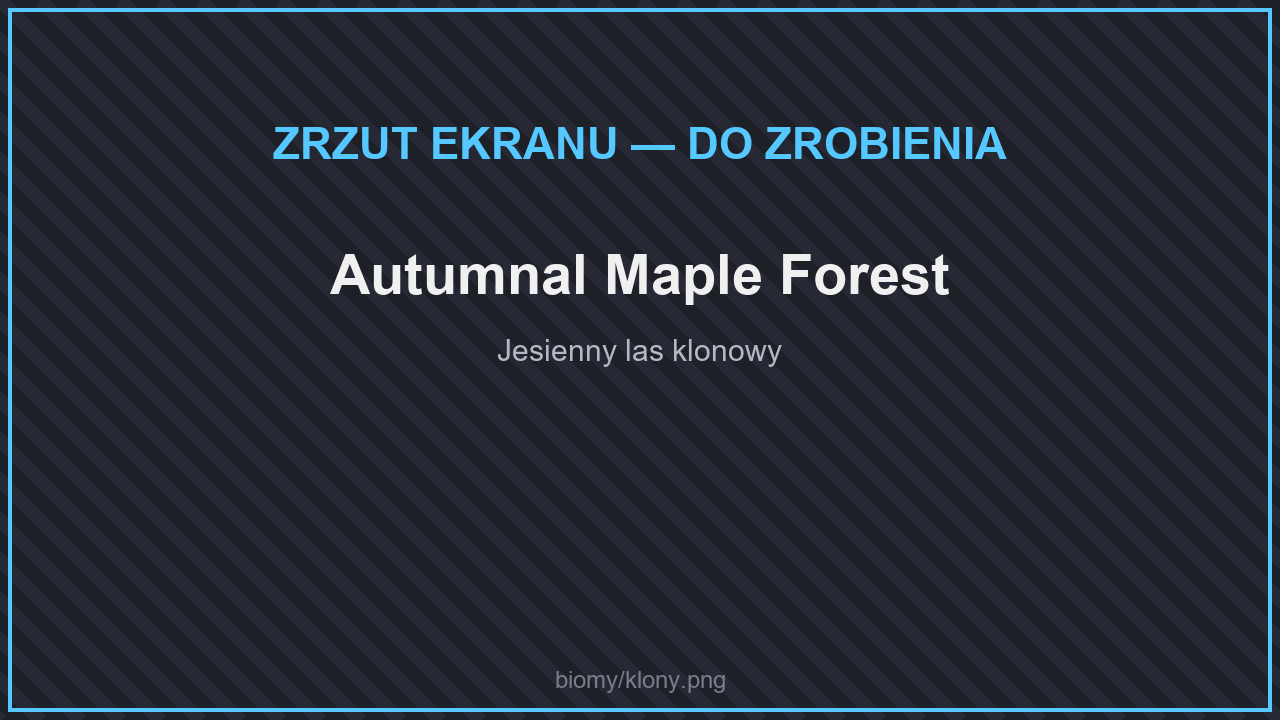
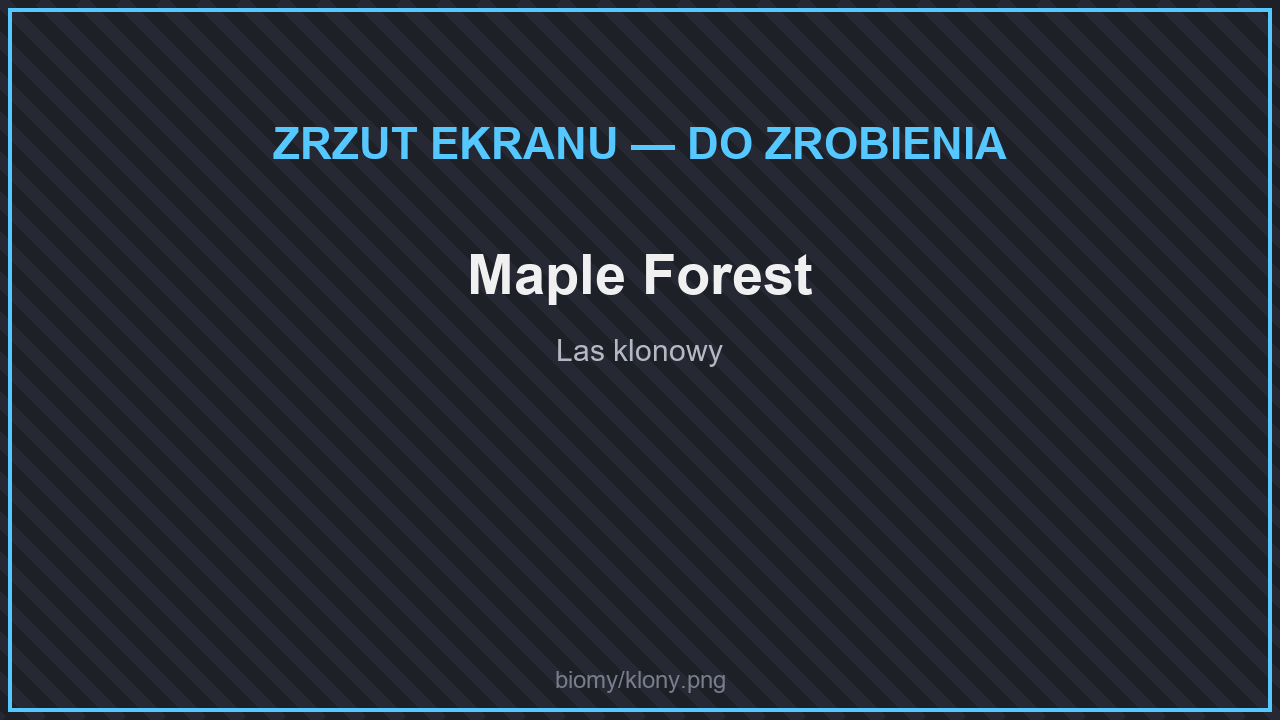
Wiki: wszystkie biomy (114 / 9 / 16), usunięte biomy wycofane
- Świat Główny: dodane 44 zwykłe biomy i Old Growth Forest, usunięty Autumnal Maple Forest.
- Nether i Kres: tabele zwykłych biomów.
- Sloty zdjęć: biomy Netheru po usunięciu BetterNether, klony = Maple Forest.

Changed region(s): [[0.25, 0.3361, 0.75, 0.4278], [0.375, 0.4583, 0.625, 0.5194]]

diff --git a/tools/media_plan.py b/tools/media_plan.py
@@ -286,11 +286,11 @@ PLAN = {
     "wymiary/swiat-glowny/biomy.md": {
         "## Lasy": [
             ("biomy/sekwoje.png", "Redwoods", "Las sekwojowy"),
-            ("biomy/klony.png", "Autumnal Maple Forest", "Jesienny las klonowy"),
+            ("biomy/klony.png", "Maple Forest", "Las klonowy"),
             ("biomy/glicynie.png", "Wisteria Grove", "Gaj glicynii"),
         ],
         "## Równiny i łąki": [("biomy/pola-kwiatow.png", "Flower Fields", "Pola kwiatów")],
-        "## Pustynie i sawanny": [
+        "## Pustynie, sawanny i badlandy": [
             ("biomy/saguaro.png", "Saguaro Desert", "Pustynia z kaktusami saguaro"),
             ("biomy/baobaby.png", "Baobab Savanna", "Sawanna z baobabami"),
         ],
@@ -328,13 +328,12 @@ PLAN = {
         "# 🔥 Nether": [("nether/panorama.png", "Nether", "Panorama Netheru z nowymi biomami")],
     },
     "wymiary/nether/biomy.md": {
-        "## Lasy": [
-            ("nether/dzungla.png", "Nether Jungle", "Netherowa dżungla"),
-            ("nether/grzybowy-las.png", "Nether Mushroom Forest", "Las ogromnych grzybów"),
-            ("nether/odwrocony-las.png", "Upside Down Forest", "Odwrócony las"),
+        "## Nowe biomy": [
+            ("nether/lsniaca-laka.png", "Glistering Meadow", "Lśniąca łąka z błyszczącymi paprociami"),
+            ("nether/plonacy-zagajnik.png", "Infernal Holt", "Płonący zagajnik z żarodrzewami"),
+            ("nether/czernitowa-niecka.png", "Blackstone Basin", "Czernitowa niecka z obsydianowymi iglicami"),
+            ("nether/trujace-poszycie.png", "Mycotoxic Undergrowth", "Trujące poszycie z mykotoksycznymi grzybami"),
         ],
-        "## Bagna i równiny": [("nether/mokradla.png", "Nether Swampland", "Netherowe mokradła")],
-        "## Pustkowia": [("nether/koscista-rafa.png", "Bone Reef", "Kościana rafa")],
     },
     "wymiary/nether/struktury.md": {
         "## Nowe struktury": [

diff --git a/tools/MEDIA.md b/tools/MEDIA.md
@@ -1,6 +1,6 @@
 # Zdjęcia i GIF-y do dokumentacji
 
-Gotowe: **0 / 200** (PNG: 138, GIF: 62).
+Gotowe: **0 / 176** (PNG: 119, GIF: 57).
 
 Każde miejsce na obrazek ma już plik-zaślepkę w `.gitbook/assets/`. Aby dodać prawdziwy obrazek, zapisz go **pod tą samą nazwą** (nadpisz zaślepkę) i uruchom `python tools/media.py`, żeby odświeżyć tę listę.
 
@@ -30,7 +30,6 @@ Każde miejsce na obrazek ma już plik-zaślepkę w `.gitbook/assets/`. Aby doda
 
 | | Plik | Podpis | Co pokazać |
 | --- | --- | --- | --- |
-| ⬜ | `start/plecak.png` | Plecak /plecak | Otwarty plecak z kilkoma przedmiotami |
 | ⬜ | `start/skrzynie.gif` | Otwieranie skrzyni kluczem | Otwieranie skrzyni na /skrzynie z animacją losowania |
 | ⬜ | `start/piniata.gif` | Piniata | Gracze rozbijają piniatę |
 | ⬜ | `start/strefa-afk.png` | Strefa AFK | Widok strefy AFK |
@@ -43,14 +42,6 @@ Każde miejsce na obrazek ma już plik-zaślepkę w `.gitbook/assets/`. Aby doda
 | ⬜ | `informacje/dzialki-granice.gif` | Granice działki | Podgląd granic działki (cząsteczki) i zakładanie działki |
 | ⬜ | `informacje/blok-przejecia.png` | Blok Przejęcia | Postawiony Blok Przejęcia przy granicy działki |
 | ⬜ | `informacje/dzialki-zaufani.png` | Zaufani gracze | Menu zaufanych graczy działki |
-
-## informacje/zadania.md
-
-| | Plik | Podpis | Co pokazać |
-| --- | --- | --- | --- |
-| ⬜ | `informacje/gildie.png` | Menu zadań gildii | Otwarte menu /zadania z trzema gildiami |
-| ⬜ | `informacje/misje.png` | Misje | Lista misji |
-| ⬜ | `informacje/runy.png` | Runy | Kilka run w ekwipunku z opisem |
 
 ## informacje/umiejetnosci.md
 
@@ -114,7 +105,6 @@ Każde miejsce na obrazek ma już plik-zaślepkę w `.gitbook/assets/`. Aby doda
 | ⬜ | `ekwipunek/szlamowa-odbicie.gif` | Szlamowa zbroja — Odbicie | Mob uderza gracza w szlamowej zbroi i zostaje odrzucony |
 | ⬜ | `ekwipunek/promethium.png` | Zbroja z promethium | Stojak ze zbroją z promethium |
 | ⬜ | `ekwipunek/chodzenie-po-lawie.gif` | Chodzenie po lawie | Gracz w butach z promethium chodzi po lawie |
-| ⬜ | `ekwipunek/betternether-zestawy.png` | Cincinnasite i Nether Ruby | Stojaki z zestawem cincinnasite i nether ruby + broń |
 
 ## dodatki/ekwipunek/bron.md
 
@@ -160,16 +150,8 @@ Każde miejsce na obrazek ma już plik-zaślepkę w `.gitbook/assets/`. Aby doda
 
 | | Plik | Podpis | Co pokazać |
 | --- | --- | --- | --- |
-| ⬜ | `maszyny/prasa.gif` | Prasa mechaniczna | Prasa robi płytki z żelaza (menu z postępem) |
-| ⬜ | `maszyny/rozdrabniacz.gif` | Rozdrabnianie rud | Ruda -> 2 pyły w menu rozdrabniacza |
-| ⬜ | `maszyny/piec-elektryczny.png` | Piec elektryczny | Menu pieca elektrycznego |
-| ⬜ | `maszyny/krystalizator.png` | Krystalizator | Krystalizator z blokiem gwiezdnego pyłu |
 | ⬜ | `maszyny/zamrazarka.png` | Zamrażarka | Menu zamrażarki z wyborem lodu |
 | ⬜ | `maszyny/generator-bruku.gif` | Generator bruku | Generator bruku + niszczyciel bloków / kabel do skrzyni |
-| ⬜ | `maszyny/zaparzacz.png` | Zaparzacz do płynów | Menu zaparzacza (wiadro -> wiadro wody) |
-| ⬜ | `maszyny/stojak-mikstur.png` | Elektryczny stojak do parzenia | Menu wyboru efektów mikstury |
-| ⬜ | `maszyny/auto-crafter.gif` | Auto Crafter | Ustawianie receptury i automatyczne craftowanie |
-| ⬜ | `maszyny/ladowarka.png` | Ładowarka | Ładowarka z ładującym się jetpackiem |
 
 ## dodatki/maszyny/farmy.md
 
@@ -195,8 +177,6 @@ Każde miejsce na obrazek ma już plik-zaślepkę w `.gitbook/assets/`. Aby doda
 | ⬜ | `maszyny/niszczyciel.gif` | Niszczyciel bloków | Niszczyciel bloków przy generatorze bruku |
 | ⬜ | `maszyny/stawiacz.gif` | Stawiacz bloków | Stawiacz stawiający bloki |
 | ⬜ | `maszyny/pompa.gif` | Pompa | Pompa wypompowuje jezioro lawy |
-| ⬜ | `maszyny/ladowarka-chunkow.png` | Ładowarka chunków | Ładowarka chunków z podglądem zasięgu |
-| ⬜ | `maszyny/star-collector.gif` | Star Collector | Zbieranie gwiezdnego pyłu nocą |
 
 ## dodatki/maszyny/logistyka.md
 
@@ -219,7 +199,6 @@ Każde miejsce na obrazek ma już plik-zaślepkę w `.gitbook/assets/`. Aby doda
 | ⬜ | `przechowywanie/szuflady.png` | Szuflady | Ściana szuflad z przedmiotami i liczbami |
 | ⬜ | `przechowywanie/szuflady-uzycie.gif` | Wkładanie do szuflad | Wkładanie i wyjmowanie przedmiotów z szuflady, dwuklik |
 | ⬜ | `przechowywanie/kontroler.gif` | Kontroler szuflad | Wkładanie stosu do kontrolera — rozchodzi się do szuflad |
-| ⬜ | `przechowywanie/kosz.png` | Kosz na śmieci | Menu kosza z górnym rzędem i filtrem |
 | ⬜ | `przechowywanie/plecaki.png` | Plecaki podróżnika | Kilkanaście postawionych plecaków różnych wzorów |
 | ⬜ | `przechowywanie/plecak-menu.png` | Menu plecaka | Otwarty plecak ze zbiornikami i slotem ulepszenia |
 
@@ -261,8 +240,6 @@ Każde miejsce na obrazek ma już plik-zaślepkę w `.gitbook/assets/`. Aby doda
 | ⬜ | `podroze/jetpacki.png` | Jetpacki | Wszystkie jetpacki (zwykłe i opancerzone) na stojakach |
 | ⬜ | `podroze/lotnia.gif` | Lotnia | Szybowanie lotnią z góry |
 | ⬜ | `podroze/winda.gif` | Winda | Skok w górę i kucnięcie w dół między windami |
-| ⬜ | `podroze/kamien-podrozy.png` | Kamień podróży | Postawiony kamień podróży |
-| ⬜ | `podroze/kamien-podrozy-menu.png` | Menu kamieni podróży | Lista kamieni do teleportu |
 | ⬜ | `podroze/lacznik-refrenu.gif` | Łącznik refrenu | Zjedzenie owocu refrenu i teleport na łącznik |
 | ⬜ | `podroze/przekaznik-kresu.gif` | Przekaźnik Kresu | Ładowanie przekaźnika kryształem i teleport |
 | ⬜ | `podroze/lodzie.png` | Nowe łodzie | Kilka łodzi z nowych drewien na wodzie |
@@ -280,10 +257,7 @@ Każde miejsce na obrazek ma już plik-zaślepkę w `.gitbook/assets/`. Aby doda
 | | Plik | Podpis | Co pokazać |
 | --- | --- | --- | --- |
 | ⬜ | `bloki/budowla.png` | Budowla z nowych bloków | Ładna budowla z nowych bloków (np. dom z dachówkami) |
-| ⬜ | `bloki/blockus-kamienie.png` | Kamienie i cegły | Ściana próbek kamieni i cegieł Blockus |
-| ⬜ | `bloki/blockus-kolorowe.png` | Kolorowe bloki | Kolorowe kafelki, neony, lampy |
 | ⬜ | `bloki/dawn-of-time.png` | Tradycyjne budownictwo | Dom z szachulca z dachówkami i pergolą |
-| ⬜ | `bloki/pionowe-plyty.png` | Pionowe płyty | Przykład użycia pionowych płyt |
 | ⬜ | `bloki/drewno-swiat.png` | Nowe drewno | Deski i kłody wszystkich nowych drzew |
 | ⬜ | `bloki/drewno-nether.png` | Drewno z Netheru | Deski, meble i szkło z Netheru |
 
@@ -312,7 +286,6 @@ Każde miejsce na obrazek ma już plik-zaślepkę w `.gitbook/assets/`. Aby doda
 
 | | Plik | Podpis | Co pokazać |
 | --- | --- | --- | --- |
-| ⬜ | `insekty/lapanie.gif` | Łapanie owadów | Łapanie motyla siatką |
 | ⬜ | `insekty/terraria.png` | Terraria | Półka z terrariami pełnymi owadów |
 
 ## wymiary/swiat-glowny/README.md
@@ -327,7 +300,7 @@ Każde miejsce na obrazek ma już plik-zaślepkę w `.gitbook/assets/`. Aby doda
 | | Plik | Podpis | Co pokazać |
 | --- | --- | --- | --- |
 | ⬜ | `biomy/sekwoje.png` | Redwoods | Las sekwojowy |
-| ⬜ | `biomy/klony.png` | Autumnal Maple Forest | Jesienny las klonowy |
+| ⬜ | `biomy/klony.png` | Maple Forest | Las klonowy |
 | ⬜ | `biomy/glicynie.png` | Wisteria Grove | Gaj glicynii |
 | ⬜ | `biomy/pola-kwiatow.png` | Flower Fields | Pola kwiatów |
 | ⬜ | `biomy/saguaro.png` | Saguaro Desert | Pustynia z kaktusami saguaro |
@@ -362,7 +335,6 @@ Każde miejsce na obrazek ma już plik-zaślepkę w `.gitbook/assets/`. Aby doda
 | ⬜ | `zwierzeta/zoo.png` | Nowe zwierzęta | Kolaż kilku zwierząt (niedźwiedź, słoń, tukan, orka) |
 | ⬜ | `zwierzeta/grizzly.png` | Niedźwiedź Grizzly | Niedźwiedź grizzly w lesie |
 | ⬜ | `zwierzeta/slon.png` | Słoń | Słonie na sawannie |
-| ⬜ | `zwierzeta/goryl.png` | Goryl | Goryle w dżungli |
 | ⬜ | `zwierzeta/krokodyl.png` | Krokodyl | Krokodyl przy rzece |
 | ⬜ | `zwierzeta/orka.gif` | Orka | Pływająca orka |
 | ⬜ | `zwierzeta/trzepotnik.png` | Trzepotnik | Trzepotnik w bujnej jaskini |
@@ -377,11 +349,10 @@ Każde miejsce na obrazek ma już plik-zaślepkę w `.gitbook/assets/`. Aby doda
 
 | | Plik | Podpis | Co pokazać |
 | --- | --- | --- | --- |
-| ⬜ | `nether/dzungla.png` | Nether Jungle | Netherowa dżungla |
-| ⬜ | `nether/grzybowy-las.png` | Nether Mushroom Forest | Las ogromnych grzybów |
-| ⬜ | `nether/odwrocony-las.png` | Upside Down Forest | Odwrócony las |
-| ⬜ | `nether/mokradla.png` | Nether Swampland | Netherowe mokradła |
-| ⬜ | `nether/koscista-rafa.png` | Bone Reef | Kościana rafa |
+| ⬜ | `nether/lsniaca-laka.png` | Glistering Meadow | Lśniąca łąka z błyszczącymi paprociami |
+| ⬜ | `nether/plonacy-zagajnik.png` | Infernal Holt | Płonący zagajnik z żarodrzewami |
+| ⬜ | `nether/czernitowa-niecka.png` | Blackstone Basin | Czernitowa niecka z obsydianowymi iglicami |
+| ⬜ | `nether/trujace-poszycie.png` | Mycotoxic Undergrowth | Trujące poszycie z mykotoksycznymi grzybami |
 
 ## wymiary/nether/struktury.md
 

diff --git a/wymiary/swiat-glowny/biomy.md b/wymiary/swiat-glowny/biomy.md
@@ -1,23 +1,28 @@
 ---
-description: Około 70 nowych biomów na powierzchni i pod ziemią — od sekwojowych lasów po kredowe klify.
+description: Wszystkie 114 biomów Świata Głównego — 70 nowych i 44 zwykłe, od sekwojowych lasów po kredowe klify.
 ---
 
 # 🌄 Biomy
 
-Generator świata dodaje **około 70 nowych biomów**. Wiele z nich ma własne drzewa, kwiaty i kamienie. Część zwykłych biomów Minecrafta (m.in. zwykłe równiny, las, tajgę, dżunglę, sawannę i bagno) zastąpiły ich nowe odpowiedniki. Nazwy biomów widzisz w grze po angielsku (np. na ekranie F3).
+W Świecie Głównym jest **114 biomów**: **70 nowych** i 44 zwykłe biomy Minecrafta. Wiele nowych biomów ma własne drzewa, kwiaty i kamienie. Nazwy biomów widzisz w grze po angielsku (np. na ekranie F3) — w tabelach nowe biomy mają nazwy angielskie, a zwykłe także polskie.
+
+{% hint style="info" %}
+Część zwykłych biomów **nie występuje** — zastąpiły je nowe odpowiedniki: równiny, las, tajga (także śnieżna i stare tajgi), dżungla (także rzadka), sawanna (także płaskowyż) i bagno.
+{% endhint %}
 
 ## Lasy
 
 <figure><img src="../../.gitbook/assets/biomy/sekwoje.png" alt="Redwoods"><figcaption><p>Redwoods</p></figcaption></figure>
 
-<figure><img src="../../.gitbook/assets/biomy/klony.png" alt="Autumnal Maple Forest"><figcaption><p>Autumnal Maple Forest</p></figcaption></figure>
+<figure><img src="../../.gitbook/assets/biomy/klony.png" alt="Maple Forest"><figcaption><p>Maple Forest</p></figcaption></figure>
 
 <figure><img src="../../.gitbook/assets/biomy/glicynie.png" alt="Wisteria Grove"><figcaption><p>Wisteria Grove</p></figcaption></figure>
 
 | Biom | |
 | --- | --- |
-| **Maple Forest**, **Autumnal Maple Forest**, **Windswept Maple Forest** | Lasy klonowe — zielone albo w jesiennych kolorach. |
+| **Maple Forest**, **Windswept Maple Forest** | Lasy klonowe, także na wietrznych wzgórzach. |
 | **Deciduous Forest**, **Cold Deciduous Forest** | Lasy liściaste, także w zimnej odmianie. |
+| **Old Growth Forest** | Stary, gęsty las z wielkimi drzewami. |
 | **Temperate Grove** | Gaj strefy umiarkowanej. |
 | **Redwoods**, **Sparse Redwoods** | Olbrzymie sekwoje. |
 | **Boreal Taiga**, **Cold Boreal Taiga**, **Golden Boreal Taiga**, **Old Growth Boreal Taiga**, **Old Growth Golden Boreal Taiga** | Północne tajgi, także ze złotymi modrzewiami. |
@@ -32,6 +37,14 @@ Generator świata dodaje **około 70 nowych biomów**. Wiele z nich ma własne d
 | **Bamboo Forest** | Las bambusowy. |
 | **Eucalyptus Forest** | Las eukaliptusowy. |
 | **Rainforest**, **Sparse Rainforest**, **Tropics** | Lasy deszczowe i tropiki. |
+| **Birch Forest** (las brzozowy), **Old Growth Birch Forest** (stary las brzozowy) | Zwykłe lasy brzozowe. |
+| **Dark Forest** (mroczny las) | Gęsty las z ciemnego dębu. |
+| **Pale Garden** (blady ogród) | Blady, mglisty las z bladych dębów. |
+| **Cherry Grove** (wiśniowy gaj) | Różowe wiśnie w górach. |
+| **Flower Forest** (las kwiatowy) | Las pełen kwiatów — bardzo rzadki. |
+| **Windswept Forest** (wietrzny las) | Las na wietrznych wzgórzach. |
+| **Grove** (gaj) | Ośnieżony gaj świerkowy u stóp gór. |
+| **Bamboo Jungle** (bambusowa dżungla) | Dżungla porośnięta bambusem. |
 
 ## Równiny i łąki
 
@@ -47,8 +60,12 @@ Generator świata dodaje **około 70 nowych biomów**. Wiele z nich ma własne d
 | **Steppe** | Suchy step. |
 | **Shrubland**, **Dry Bushland** | Zarośla i suche busze. |
 | **Tundra**, **Frozen Tundra** | Zimne, puste równiny. |
+| **Meadow** (łąka) | Górska łąka pełna kwiatów. |
+| **Sunflower Plains** (równiny słonecznikowe) | Równiny ze słonecznikami — bardzo rzadkie. |
+| **Snowy Plains** (śnieżne równiny), **Ice Spikes** (lodowe kolce) | Zaśnieżone równiny, także z lodowymi iglicami. |
+| **Mushroom Fields** (grzybowe pola) | Wyspy z grzybni i mooshroomami — rzadkie. |
 
-## Pustynie i sawanny
+## Pustynie, sawanny i badlandy
 
 <figure><img src="../../.gitbook/assets/biomy/saguaro.png" alt="Saguaro Desert"><figcaption><p>Saguaro Desert</p></figcaption></figure>
 
@@ -60,6 +77,9 @@ Generator świata dodaje **około 70 nowych biomów**. Wiele z nich ma własne d
 | **Joshua Desert** | Pustynia z drzewami Jozuego. |
 | **Outback** | Czerwony australijski interior. |
 | **Baobab Savanna** | Sawanna z baobabami. |
+| **Desert** (pustynia) | Zwykła piaszczysta pustynia. |
+| **Windswept Savanna** (wietrzna sawanna) | Poszarpana sawanna na wzgórzach. |
+| **Badlands** (badlandy), **Wooded Badlands** (zalesione badlandy), **Eroded Badlands** (zerodowane badlandy) | Kolorowa terakota i iglice, także z drzewami. |
 
 ## Bagna i rzeki
 
@@ -70,7 +90,9 @@ Generator świata dodaje **około 70 nowych biomów**. Wiele z nich ma własne d
 | **Bayou**, **Old Growth Bayou** | Cyprysowe bagna. |
 | **Fen**, **Marsh** | Torfowiska i mokradła. |
 | **Fungal Fen** | Bagno porośnięte grzybami. |
+| **Mangrove Swamp** (bagno namorzynowe) | Namorzyny z błotem. |
 | **Muddy River**, **Cold River**, **Tropical River** | Nowe rodzaje rzek. |
+| **River** (rzeka), **Frozen River** (zamarznięta rzeka) | Zwykłe rzeki. |
 
 ## Góry i klify
 
@@ -84,6 +106,9 @@ Generator świata dodaje **około 70 nowych biomów**. Wiele z nich ma własne d
 | **Towering Cliffs** | Wysokie, strome urwiska. |
 | **Spires** | Skalne iglice. |
 | **Icy Heights** | Lodowe szczyty. |
+| **Jagged Peaks** (postrzępione szczyty), **Frozen Peaks** (zamarznięte szczyty), **Stony Peaks** (kamieniste szczyty) | Najwyższe szczyty gór. |
+| **Snowy Slopes** (ośnieżone zbocza) | Śnieżne zbocza z kozami. |
+| **Windswept Hills** (wietrzne wzgórza), **Windswept Gravelly Hills** (wietrzne żwirowe wzgórza) | Poszarpane wzgórza, także żwirowe. |
 
 ## Wybrzeża i oceany
 
@@ -94,6 +119,12 @@ Generator świata dodaje **około 70 nowych biomów**. Wiele z nich ma własne d
 | **Grassy Beach**, **Gravel Beach** | Trawiaste i żwirowe plaże. |
 | **Rocky Reef** | Skalista rafa. |
 | **Hyacinth Deeps** | Głębiny pełne podwodnych kwiatów. |
+| **Beach** (plaża), **Snowy Beach** (śnieżna plaża), **Stony Shore** (kamieniste wybrzeże) | Zwykłe wybrzeża. |
+| **Ocean**, **Deep Ocean** (głęboki ocean) | Zwykły ocean. |
+| **Warm Ocean** (ciepły ocean) | Rafy koralowe. |
+| **Lukewarm Ocean** (letni ocean), **Deep Lukewarm Ocean** (głęboki letni ocean) | Ciepłe wody. |
+| **Cold Ocean** (zimny ocean), **Deep Cold Ocean** (głęboki zimny ocean) | Zimne wody. |
+| **Frozen Ocean** (zamarznięty ocean), **Deep Frozen Ocean** (głęboki zamarznięty ocean) | Ocean pokryty lodem i górami lodowymi. |
 
 ## Jaskinie
 
@@ -107,8 +138,10 @@ Generator świata dodaje **około 70 nowych biomów**. Wiele z nich ma własne d
 | **Prismachasm** | Jaskinie z kolorowymi kryształami. |
 | **Scorching Caves** | Rozgrzane jaskinie z lawospadami i kominami popiołu. |
 | **Inferno** | Głęboka, ognista jaskinia pełna lawy i popiołu. |
-
-Pod ziemią są też zwykłe jaskinie Minecrafta: bujne jaskinie, jaskinie naciekowe, jaskinie siarkowe (**Sulfur Caves**) i mroczne głębiny.
+| **Lush Caves** (bujne jaskinie) | Jaskinie z azaliami, pnączami i aksolotlami. |
+| **Dripstone Caves** (jaskinie naciekowe) | Stalaktyty i stalagmity. |
+| **Sulfur Caves** (jaskinie siarkowe) | Jaskinie pełne siarki. |
+| **Deep Dark** (mroczne głębiny) | Sculk i starożytne miasta — uważaj na Wardena! |
 
 {% hint style="info" %}
 Drewno, kamienie i rośliny z nowych biomów opisuje strona [Bloki budowlane](../../dodatki/bloki-budowlane.md#swiat-glowny). Każdy biom ma też swoje [zwierzęta](zwierzeta.md) i [ryby](../../dodatki/wedkarstwo.md#ryby-z-biomow).

diff --git a/wymiary/nether/biomy.md b/wymiary/nether/biomy.md
@@ -1,10 +1,20 @@
 ---
-description: Cztery nowe biomy Netheru — lśniące łąki, płonące zagajniki, czernitowe niecki i trujące grzybowiska.
+description: Wszystkie 9 biomów Netheru — 4 nowe (lśniące łąki, płonące zagajniki, czernitowe niecki, trujące grzybowiska) i 5 zwykłych.
 ---
 
 # 🌋 Biomy
 
-Oprócz pięciu zwykłych biomów (netherowe pustkowia, karmazynowy i spaczony las, dolina dusz, delty bazaltowe) w Netherze znajdziesz **cztery nowe biomy**. Nazwy w grze są po angielsku.
+W Netherze jest **9 biomów**: **cztery nowe** i pięć zwykłych biomów Minecrafta. Nazwy w grze są po angielsku.
+
+## Nowe biomy
+
+<figure><img src="../../.gitbook/assets/nether/lsniaca-laka.png" alt="Glistering Meadow"><figcaption><p>Glistering Meadow</p></figcaption></figure>
+
+<figure><img src="../../.gitbook/assets/nether/plonacy-zagajnik.png" alt="Infernal Holt"><figcaption><p>Infernal Holt</p></figcaption></figure>
+
+<figure><img src="../../.gitbook/assets/nether/czernitowa-niecka.png" alt="Blackstone Basin"><figcaption><p>Blackstone Basin</p></figcaption></figure>
+
+<figure><img src="../../.gitbook/assets/nether/trujace-poszycie.png" alt="Mycotoxic Undergrowth"><figcaption><p>Mycotoxic Undergrowth</p></figcaption></figure>
 
 | Biom | |
 | --- | --- |
@@ -12,6 +22,16 @@ Oprócz pięciu zwykłych biomów (netherowe pustkowia, karmazynowy i spaczony l
 | **Infernal Holt** | Płonący zagajnik z drzew żarodrzewu, pełen ognia i żarokiełków. |
 | **Blackstone Basin** | Czernitowa niecka z obsydianowymi iglicami, kobaltowymi korzeniami i świecącymi roślinami. |
 | **Mycotoxic Undergrowth** | Trujące poszycie z mykotoksycznymi grzybami, trawą i stokrotkami. |
+
+## Zwykłe biomy
+
+| Biom | |
+| --- | --- |
+| **Nether Wastes** (netherowe pustkowia) | Pustkowia z netherracku i jeziora lawy. |
+| **Crimson Forest** (karmazynowy las) | Karmazynowe grzyby i hogliny. |
+| **Warped Forest** (spaczony las) | Spaczone grzyby i endermany. |
+| **Soul Sand Valley** (dolina piasku dusz) | Piasek dusz, skamieniałe kości i ghasty. |
+| **Basalt Deltas** (delty bazaltowe) | Bazaltowe kolumny i czernit. |
 
 {% hint style="info" %}
 Drewno żarodrzewu i rośliny z nowych biomów opisuje strona [Bloki budowlane](../../dodatki/bloki-budowlane.md#nether).

diff --git a/wymiary/kres/biomy.md b/wymiary/kres/biomy.md
@@ -1,12 +1,12 @@
 ---
-description: Nowe biomy Kresu — lasy refrenu, cieniste lasy, kryształowe góry, megajeziora i więcej.
+description: Wszystkie 16 biomów Kresu — 14 nowych (lasy refrenu, cieniste lasy, kryształowe góry, megajeziora) i 2 zwykłe.
 ---
 
 # 🌌 Biomy
 
 <figure><img src="../../.gitbook/assets/kres/biomy.png" alt="Biomy Kresu"><figcaption><p>Biomy Kresu</p></figcaption></figure>
 
-Środkowa wyspa ze Smokiem Kresu wygląda jak w zwykłym Minecrafcie, ale zewnętrzne wyspy mają **14 nowych biomów** (nazwy w grze są po angielsku):
+W Kresie jest **16 biomów**. Środkowa wyspa ze Smokiem Kresu wygląda jak w zwykłym Minecrafcie, ale zewnętrzne wyspy mają **14 nowych biomów** (nazwy w grze są po angielsku).
 
 ## Lasy
 
@@ -35,3 +35,10 @@ description: Nowe biomy Kresu — lasy refrenu, cieniste lasy, kryształowe gór
 | **Ice Starfield** | Pole lodowych gwiazd. |
 | **Dust Wastelands** | Pyłowe pustkowia. |
 | **Umbra Valley** | Ciemna dolina z łukami z umbralitu. |
+
+## Zwykłe biomy
+
+| Biom | |
+| --- | --- |
+| **The End** (Kres) | Środkowa wyspa ze Smokiem Kresu i obsydianowymi filarami. |
+| **Small End Islands** (małe wyspy Kresu) | Drobne wysepki w pustce między dużymi wyspami. |
